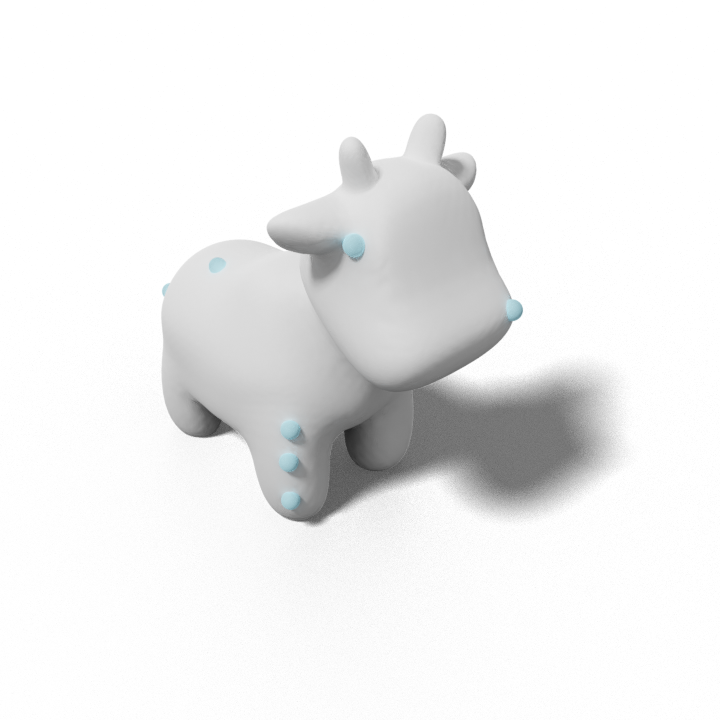
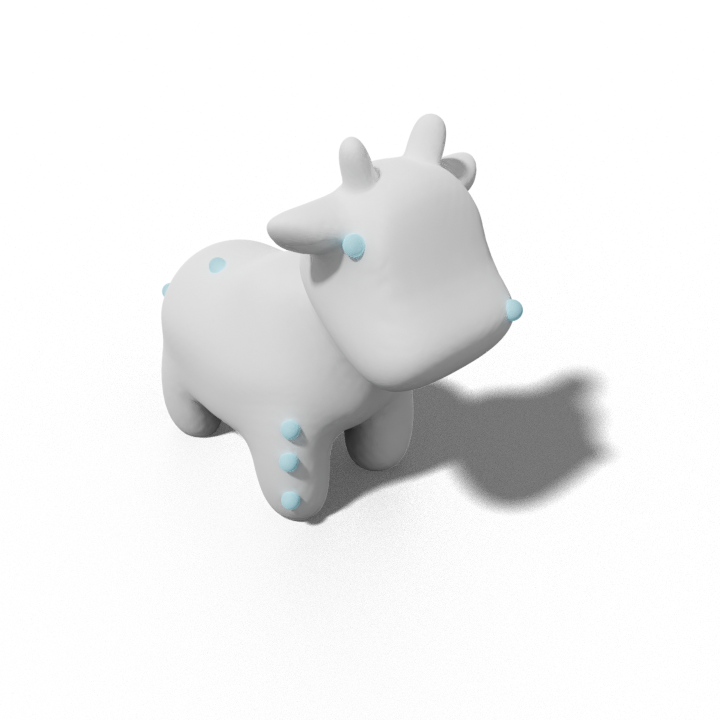
update vertex subset

Changed region(s): [[0.55, 0.5194, 0.8556, 0.7028], [0.6111, 0.5194, 0.6722, 0.55], [0.4889, 0.6722, 0.55, 0.7028]]

diff --git a/cycles/utils/drawVertexSubset.py b/cycles/utils/drawVertexSubset.py
@@ -3,10 +3,7 @@ from include import *
 
 def drawVertexSubset(mesh, VIdx, ptSize, ptColor):
     for ii in VIdx:
-        Vloc = mesh.matrix_world.to_3x3() @ mesh.data.vertices[int(ii)].co
-        Vloc[0] += mesh.matrix_world[0][3]
-        Vloc[1] += mesh.matrix_world[1][3]
-        Vloc[2] += mesh.matrix_world[2][3]
+        Vloc = mesh.matrix_world @ mesh.data.vertices[int(ii)].co
         bpy.ops.mesh.primitive_uv_sphere_add(radius = ptSize, location = Vloc)
         sphere = bpy.context.object
         bpy.ops.object.shade_smooth()

diff --git a/cycles/utils/drawLines.py b/cycles/utils/drawLines.py
@@ -30,4 +30,7 @@ def drawLines(p1List, p2List, r, colorList = None):
             mat = bpy.data.materials.new('MeshMaterial')
             bpy.context.object.data.materials.append(mat)
             bpy.context.object.active_material = mat
-            mat.diffuse_color = colorList[ii,:]
+            if len(colorList) != 1:
+                mat.diffuse_color = colorList[ii,:]
+            else:
+                mat.diffuse_color = colorList

diff --git a/cycles/utils/readOBJ.py b/cycles/utils/readOBJ.py
@@ -8,7 +8,7 @@ def readOBJ(filePath, location, rotation_euler, scale):
 	angle = (x,y,z)
 	bpy.ops.import_scene.obj(filepath=filePath)
 	# mesh = bpy.data.objects[-1]
-	mesh = bpy.context.selected_objects[0]
+	mesh = bpy.context.selected_objects[-1]
 	mesh.location = location
 	mesh.rotation_euler = angle
 	mesh.scale = scale
